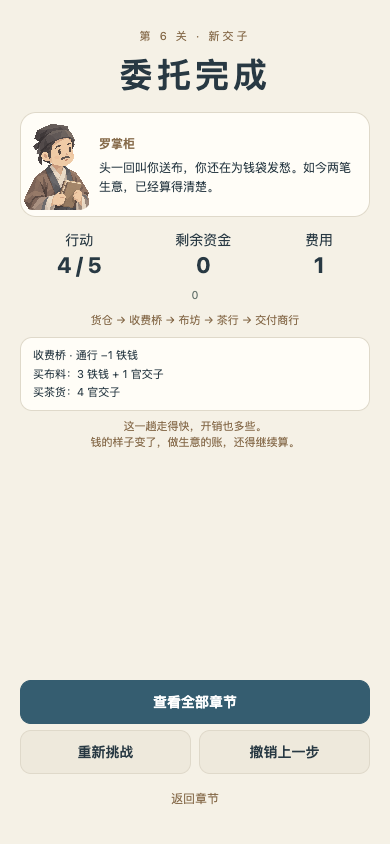
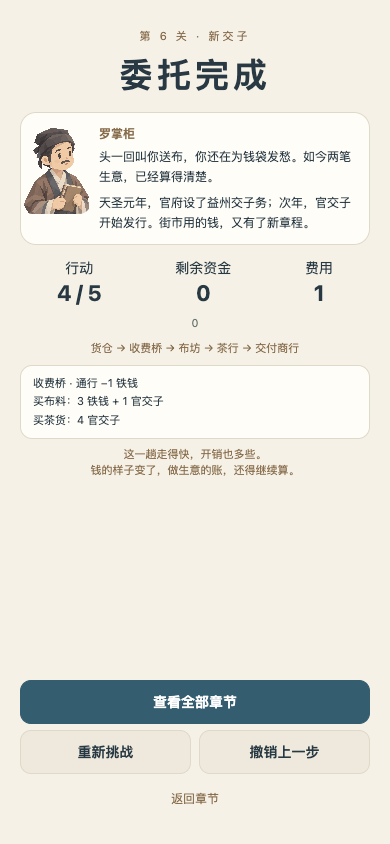
Blend chapter history into endings and illustrate the chapter journey

Changed region(s): [[0.0615, 0.1232, 0.8923, 0.5853], [0.9231, 0.2464, 0.9538, 0.2773]]

diff --git a/web/app.js b/web/app.js
@@ -17,20 +17,20 @@ function mapView(v){
 function panel(v){const p=v.panel;return `<div class="action-panel ${p.kind}"><div class="panel-heading"><strong>${esc(p.title)}</strong><span class="muted">${esc(p.meta)}</span></div><button class="ask-guide" data-action="hint" aria-label="向阿禾询问提示"><img src="${v.guide.portrait}" alt=""><span>问阿禾</span></button><div class="payment-controls">${p.steppers.map(s=>`<div class="stepper ${s.key==='x'?'exchange-stepper':''}">${btn('−',s.minus,'small',s.minDisabled)}<span class="stepper-value">${esc(s.label)}${s.key==='x'?'':` <b>${s.value}</b>`}</span>${btn('+',s.plus,'small',s.maxDisabled)}</div>`).join('')}</div>${p.choices.length?`<div class="choice-buttons">${p.choices.map(c=>btn(c.label,c.id,c.selected?'primary':'secondary')).join('')}</div>`:''}<p class="preview">${esc(p.preview)}</p><div class="action-buttons">${buttons(p.buttons)}</div></div>`;}
 function portrait(a,cls='portrait'){return `<img class="${cls}" src="${a.portrait}" alt="${esc(a.name)}">`;}
 function vignette(v,who){return `<div class="story-visual"><img class="vignette-scene" src="${v.narrative.scene}" style="object-position:${v.narrative.crop}" alt="蜀地街市"><div class="vignette-wash"></div>${portrait(who,'hero-portrait')}<div class="vignette-caption"><span class="eyebrow">${esc(v.narrative.tag)}</span><span>一程商路 · 一笔人情</span></div></div>`;}
-function response(v){return `<div class="character-response">${portrait(v.outroActor)}<div><b>${esc(v.outroActor.name)}</b><p>${esc(v.outroText)}</p></div></div>`;}
+function response(v){return `<div class="character-response ${v.historyLine?'history-response':''}">${portrait(v.outroActor)}<div><b>${esc(v.outroActor.name)}</b><p>${esc(v.outroText)}</p>${v.historyLine?`<p class="history-line">${esc(v.historyLine)}</p>`:''}</div></div>`;}
 function modal(v){const m=v.modal;if(!m)return '';let foot='';
  if(m.kind==='menu')return `<div class="modal-backdrop menu-backdrop"><section class="rules-dialog journey-menu" role="dialog" aria-modal="true" aria-label="行商手记"><div class="row"><h2>行商手记</h2>${btn('收起','close','text-button')}</div><div class="journey-menu-items">${btn('查看规则','rules','secondary')}${btn('重听委托','replay','secondary')}${btn('重新启程','retry','secondary')}${btn('选择章节','chapters','secondary')}</div></section></div>`;
  if(m.kind==='move')foot=btn('返回','close','secondary')+(m.canMove?btn('确认前往','confirm-move'):'');
  else if(m.kind==='lesson')foot=btn('跳过教学','skip-tutorial','secondary')+btn('继续','lesson-next');
  else if(m.kind==='hint')foot=btn('返回游戏','close','secondary')+btn(v.hintLevel===1?'查看参考解法':'再提示一点','hint-next','primary',v.hintLevel>=2);
- else if(m.kind==='rules'||m.kind==='history')foot=btn('上一页',m.kind==='rules'?'rule-prev':'history-prev','secondary',m.page===0)+btn(m.page===m.count-1?'返回游戏':'下一页',m.page===m.count-1?'close':m.kind==='rules'?'rule-next':'history-next');
+ else if(m.kind==='rules')foot=btn('上一页','rule-prev','secondary',m.page===0)+btn(m.page===m.count-1?'返回游戏':'下一页',m.page===m.count-1?'close':'rule-next');
  else foot=btn('继续行商','close');
  if(m.dialogue)return `<div class="modal-backdrop narrative-backdrop ${m.important?'important-dialogue':'teaching-backdrop'}"><section class="rules-dialog dialogue-card" role="${m.important?'dialog':'status'}" aria-modal="${m.important}" aria-label="${esc(m.title)}">${portrait(m.actor,'dialogue-portrait')}<div class="dialogue-copy"><span class="eyebrow">${esc(m.actor.role)}</span><h2>${esc(m.actor.name)}</h2><p>${esc(m.body)}</p></div><div class="dialog-controls">${foot}</div></section></div>`;
  return `<div class="modal-backdrop ${m.kind==='lesson'?'teaching-backdrop':''}"><section class="rules-dialog" role="${m.kind==='lesson'?'status':'dialog'}" aria-modal="${m.kind!=='lesson'}" aria-label="${esc(m.title)}"><div class="row"><span class="eyebrow">${m.kind==='lesson'?'同行寄语':m.kind==='hint'?`提示 ${v.hintLevel+1} / 3`:'行商札记'}</span>${btn('关闭','close','text-button')}</div><h2>${esc(m.title)}</h2>${m.flavor?`<div class="node-flavor">${esc(m.flavor)}</div>`:''}<p>${esc(m.body).replace(/\n/g,'<br>')}</p><div class="dialog-controls">${foot}</div></section></div>`;
 }
 function render(){const v=ShuNarrative.decorate(ShuScene.decorate(game.view())),s=v.s,l=v.level;let html='';
- if(v.screen==='home')html=`<section class="journey-home"><header class="journey-heading"><span class="eyebrow">北宋蜀地 · 行商札记</span><h1>蜀地钱路</h1><p>钱有轻重，路有取舍。</p></header><article class="continue-card">${vignette(v,v.guide)}<div class="continue-copy"><div class="row"><span class="eyebrow">第 ${l.number} 关 · ${esc(v.narrative.tag)}</span><span class="progress-count">已完成 ${v.completedCount} / ${v.chapterCount}</span></div><h2>${esc(l.title)}</h2><p>${esc(l.mission)}</p><div class="journey-progress">${v.chapters.map(c=>`<i class="${c.completed?'done':c.id===l.id?'active':''}"></i>`).join('')}</div><span class="journey-status">${esc(v.journeyStatus)}</span></div></article><div class="home-actions">${btn('继续章节','start')}<div class="action-buttons">${btn('选择章节','chapters','secondary')}${btn('交子史话','history','secondary')}</div></div></section>`;
- else if(v.screen==='chapters')html=`<section class="chapters-screen narrative-chapters"><div class="row"><div><span class="eyebrow">从一袋铁钱，到独当一面</span><h1>行商六记</h1></div>${btn('返回','home','text-button')}</div><p class="chapter-progress">已办妥 ${v.completedCount} 笔委托 · 共 ${v.chapterCount} 章</p><div class="chapter-grid">${v.chapters.map(c=>`<button class="chapter-card ${c.completed?'completed':''}" data-action="level:${c.id}" ${c.locked?'disabled':''}><div class="chapter-thumbnail"><img src="${c.scene}" style="${c.artStyle}" alt=""><span class="chapter-number">0${c.number}</span><span class="chapter-state">${c.locked?'未解锁':c.completed?'已完成':'启程'}</span></div><div class="chapter-card-copy"><strong>${esc(c.title)}</strong><span>${esc(c.subtitle)}</span></div></button>`).join('')}</div></section>`;
+ if(v.screen==='home')html=`<section class="journey-home"><header class="journey-heading"><span class="eyebrow">北宋蜀地 · 行商札记</span><h1>蜀地钱路</h1><p>钱有轻重，路有取舍。</p></header><article class="continue-card">${vignette(v,v.guide)}<div class="continue-copy"><div class="row"><span class="eyebrow">第 ${l.number} 关 · ${esc(v.narrative.tag)}</span><span class="progress-count">已完成 ${v.completedCount} / ${v.chapterCount}</span></div><h2>${esc(l.title)}</h2><p>${esc(l.mission)}</p><div class="journey-progress">${v.chapters.map(c=>`<i class="${c.completed?'done':c.id===l.id?'active':''}"></i>`).join('')}</div><span class="journey-status">${esc(v.journeyStatus)}</span></div></article><div class="home-actions">${btn('继续章节','start')}<div class="action-buttons">${btn('选择章节','chapters','secondary')}</div></div></section>`;
+ else if(v.screen==='chapters')html=`<section class="chapter-journey"><header class="row"><div><span class="eyebrow">沿着蜀地商路，记下六段故事</span><h1>行商六记</h1></div>${btn('首页','home','text-button')}</header><div class="journey-caption"><span>一程一约，慢慢走来</span><span>已完成 ${v.completedCount} / ${v.chapterCount}</span></div><div class="chapter-landscape"><img class="chapter-ground" src="${v.chapterBackdrop}" alt=""><div class="chapter-roads" aria-hidden="true">${v.chapterRoads.map(r=>`<div class="chapter-road ${r.reverse?'reverse':''} ${r.done?'done':''}" style="${r.style}"></div>`).join('')}</div>${v.chapters.map(c=>`<button class="chapter-stop ${c.completed?'completed':''} ${c.locked?'locked':''} ${c.active?'active':''}" style="${c.positionStyle}" data-action="level:${c.id}" ${c.locked?'disabled':''} aria-label="第${c.number}关 ${esc(c.title)} ${c.locked?'未解锁':c.completed?'已完成':'启程'}"><span class="chapter-island"><span class="chapter-sprite"><img src="${c.scene}" style="${c.artStyle}" alt="${esc(c.tag)}场景"></span></span><span class="stop-label"><span class="stop-title"><i>${String(c.number).padStart(2,'0')}</i><strong>${esc(c.title)}</strong></span><span class="stop-caption">${esc(c.tag)}<span class="chapter-state">${c.locked?'未解锁':c.completed?'已完成':'启程'}</span></span></span></button>`).join('')}</div></section>`;
  else if(v.screen==='intro')html=`<section class="chapter-opening"><header><span class="eyebrow">第 ${l.number} 关 / ${esc(v.narrative.tag)}</span><h1>${esc(l.title)}</h1><p class="opening-line">${esc(v.narrative.line)}</p></header>${vignette(v,v.narrative.speaker)}<div class="commission-card"><div class="speaker-line"><b>${esc(v.narrative.speaker.name)}</b><span>${esc(v.narrative.speaker.role)}</span></div><p>${esc(v.narrative.opening)}</p><div class="commission-details"><strong>${esc(l.mission)}</strong><div><span>${l.maxSteps} 步内送达</span><span>钱袋 ${l.capacity} 格</span></div></div></div><div class="opening-actions">${btn('开始委托','play')}${btn('跳过教学，直接开始','skip-intro','text-button')}</div></section>`;
  else if(s.status!=='playing')html=`<section class="result-screen"><span class="eyebrow">第 ${l.number} 关 · ${esc(l.title)}</span><h1 class="cover-title">${s.status==='won'?'委托完成':'行程未成'}</h1>${response(v)}${s.status!=='won'?`<p class="result-copy">${esc(v.resultText)}</p>`:''}<div class="result-stats"><span>行动<b>${s.stepsUsed} / ${l.maxSteps}</b></span><span>剩余资金<b>${v.total}</b></span><span>费用<b>${v.fee}</b></span></div><p class="muted">${esc(v.remainingText)}</p><p class="path">${esc(v.pathText)}</p><div class="ledger">${v.ledger.map(row=>`<p>${esc(row.text)}</p>`).join('')}</div>${s.status==='won'?`<p class="route-review">${esc(v.routeReview)}${v.ending?'<br>'+esc(v.ending):''}</p>`:''}<div class="result-buttons">${s.status==='won'?btn(v.nextLabel,'next'):''}<div class="action-buttons">${btn('重新挑战','retry','secondary')}${btn('撤销上一步','undo','secondary',!v.canUndo)}</div>${btn('返回章节','chapters','text-button')}</div></section>`;
  else html=`<div class="panel-terrain"><img src="${v.modular?'/miniapp/assets/v2/terrain.png':'/miniapp/assets/approved/town-extended.png'}" alt=""></div><header class="topbar"><div class="row"><div><h1 class="brand">蜀地钱路</h1><span class="chapter">第 ${l.number} 关 · ${esc(l.title)}</span></div><div class="top-actions">${btn('菜单','menu','menu-button')}</div></div><div class="mission"><span>${esc(l.mission)}</span><div class="journey-actions"><span class="steps"><b>${s.stepsUsed}</b> / ${l.maxSteps} 步</span><button class="undo-action" data-action="undo" aria-label="撤销上一步" title="撤销上一步" ${v.canUndo?'':'disabled'}><span aria-hidden="true">↶</span><small>撤销</small></button></div></div></header>${mapView(v)}<section class="dock"><div class="wallet">${v.resources.map(r=>`<div class="walletitem">${icon(r)}<div><span class="label">${esc(r.name)}</span><b>${r.value}</b></div></div>`).join('')}<div class="load"><span class="label">随身负重</span><b>${v.weight} / ${l.capacity}</b><div class="capacity">${v.slots.map(slot=>`<i class="slot ${slot.kind}"></i>`).join('')}</div></div></div><div class="cargo-strip">${v.cargo.map(c=>`<span>${icon(c)}${esc(c.name)} <b>${c.value}</b></span>`).join('')}</div>${v.message?`<div class="feedback ${v.error?'error':''}" role="status">${esc(v.message)}</div>`:''}${panel(v)}</section>`;
@@ -39,3 +39,6 @@ function render(){const v=ShuNarrative.decorate(ShuScene.decorate(game.view())),
 root.addEventListener('click',e=>{const b=e.target.closest('button');if(!b||b.disabled)return;if(b.dataset.node||b.dataset.building)game.selectNode(b.dataset.node||b.dataset.building);else game.dispatch(b.dataset.action);render();});
 root.addEventListener('keydown',e=>{if(!game.view().modal||game.view().modal.kind==='lesson')return;if(e.key==='Escape'){game.dispatch('close');render();}if(e.key==='Tab'){const b=[...root.querySelectorAll('.rules-dialog button:not(:disabled)')],i=b.indexOf(document.activeElement);e.preventDefault();b[(i+(e.shiftKey?-1:1)+b.length)%b.length].focus();}});
 render();
+
+// A fresh load always starts at home. Also reset the visible screen after a cached Back visit.
+window.addEventListener('pageshow',event=>{if(event.persisted){game.dispatch('home');render();}});

diff --git a/miniapp/styles/narrative.css b/miniapp/styles/narrative.css
@@ -22,3 +22,14 @@
 .dock{padding-bottom:12px}.action-panel{position:relative;height:184px}.action-panel .panel-heading{padding-right:78px;min-height:37px}.ask-guide{position:absolute;right:0;top:3px;display:flex;align-items:center;gap:2px;width:76px;height:44px;padding:0;margin:0;background:transparent;border:0;color:var(--brown);font-size:11px;line-height:1.3}.ask-guide img,.ask-guide image{width:32px;height:40px;object-fit:cover;object-position:top;filter:saturate(var(--story-portrait-tone));border-radius:14px}.ask-guide:active{background:var(--surface);border-radius:12px}.action-panel.travel{height:90px}.action-panel.delivery{height:115px}
 .menu-backdrop{align-items:flex-start;justify-content:flex-end;padding-top:calc(68px + env(safe-area-inset-top));background:#28394335}.journey-menu{max-width:286px}.journey-menu h2,.journey-menu .rule-title{font-size:21px;margin:4px 0}.journey-menu-items{display:flex;flex-direction:column;gap:9px;margin-top:12px}.journey-menu-items button{min-height:46px;background:var(--paper);justify-content:flex-start;padding-left:16px}.journey-menu-items button:last-child{border:0;background:transparent;color:var(--brown)}
 @media(max-height:740px){.topbar{flex-basis:101px}.action-panel{height:178px}.dock{padding-bottom:8px}}
+
+/* Six illustrated chapter islands share a landscape, without directory-style cards. */
+:root,page{--chapter-art-tone:.58;--chapter-road:#bfac88;--chapter-paper:#fffdf2f2}
+.chapter-journey{display:flex;flex-direction:column;flex:1;min-height:0;padding:16px 6px 0;gap:10px}.chapter-journey .eyebrow{font-size:10px;letter-spacing:1px}.chapter-journey h1,.journey-title{font-family:serif;font-size:32px;font-weight:700;letter-spacing:2px;margin:5px 0 0;line-height:1.3}.journey-caption{display:flex;justify-content:space-between;font-size:11px;color:var(--muted);padding-bottom:5px}.chapter-landscape{position:relative;flex:1;min-height:0;margin:0 -18px -8px;isolation:isolate;overflow:hidden}.chapter-ground{position:absolute;inset:0;width:100%;height:100%;object-fit:cover;opacity:.36;filter:saturate(.45);pointer-events:none;mask-image:linear-gradient(transparent,#000 12%,#000);-webkit-mask-image:linear-gradient(transparent,#000 12%,#000)}.chapter-roads{position:absolute;inset:0;pointer-events:none}.chapter-road{position:absolute;border-bottom:3px dashed var(--chapter-road);border-right:3px dashed var(--chapter-road);border-radius:0 0 40px 0;opacity:.75}.chapter-road.reverse{transform:translateX(-100%);border-right:0;border-left:3px dashed var(--chapter-road);border-radius:0 0 0 40px}.chapter-road.done{border-color:var(--blue)}
+.chapter-stop{position:absolute;width:47%;height:28%;transform:translate(-50%,-50%);display:flex;flex-direction:column;align-items:center;justify-content:flex-end;border:0;background:transparent;border-radius:20px;padding:0;overflow:visible;min-width:44px;min-height:44px;color:var(--ink)}.chapter-stop:disabled{opacity:1;cursor:default}.chapter-stop:active:not(:disabled){transform:translate(-50%,-52%)}.chapter-island{display:block;position:relative;flex:1;width:100%;min-height:0;overflow:hidden;filter:saturate(var(--chapter-art-tone));pointer-events:none}.chapter-island img,.chapter-island image{position:absolute;width:300%;height:200%;max-width:none;object-fit:fill;display:block;pointer-events:none}.chapter-stop.locked .chapter-island{filter:saturate(.45);opacity:.85}.stop-label{display:flex;flex-direction:column;gap:3px;flex-shrink:0;width:95%;padding:6px 8px;background:var(--chapter-paper);border:1px solid #ddd6c4;border-radius:10px;box-shadow:0 3px 8px #4850390a;text-align:left;pointer-events:none}.stop-title{display:flex;align-items:center;gap:6px;white-space:nowrap}.stop-title i,.stop-number{font-style:normal;font-family:serif;color:var(--brown);font-size:14px}.stop-title strong,.stop-name{font-size:14px;font-weight:650;letter-spacing:0}.stop-caption{display:flex;justify-content:space-between;align-items:center;font-size:10px;color:var(--muted);padding-left:21px}.stop-caption .chapter-state{font-size:9px;color:var(--muted)}.chapter-stop.active .stop-label{border-color:var(--gold);background:var(--white);box-shadow:0 0 0 2px #b68e5715}.chapter-stop.active .chapter-state{background:var(--blue);border-radius:4px;color:white;padding:1px 5px}.chapter-stop.completed .chapter-state{color:var(--blue)}
+.character-response .history-line{font-size:12px;line-height:1.7;margin-top:7px;color:var(--ink)}.character-response.history-response{align-items:flex-start;padding-top:10px;padding-bottom:10px}.character-response .portrait{flex-shrink:0}.home-actions .action-buttons .secondary{background:transparent}
+@media(max-height:740px){.chapter-journey{padding-top:6px;gap:6px}.chapter-journey h1,.journey-title{font-size:28px}.stop-title strong,.stop-name{font-size:12px}.stop-label{padding:4px 6px}.stop-caption{font-size:9px}.character-response .history-line{font-size:11px;line-height:1.6;margin-top:5px}}
+
+.chapter-sprite{position:absolute;height:100%;aspect-ratio:1;left:50%;top:0;transform:translateX(-50%);overflow:hidden;display:block}
+/* Trim the atlas cell gutters so neighboring trees never appear as edge slivers. */
+.chapter-sprite{clip-path:inset(1% 4%)}

diff --git a/miniapp/core/controller.js b/miniapp/core/controller.js
@@ -22,14 +22,15 @@ function create(storage={}){
   ui.modal={kind:'move',nodeId:id,title:n.name,body:[id===s.nodeId?'当前所在地':'移动 1 步'+(n.toll?' · 每次进入付 '+n.toll+' 铁钱':' · 无通行费'),...trades,...(r&&!r.ok?[r.message]:[])].join('\n'),canMove:!!(r&&r.ok)};
  }
  function dispatch(id){const l=session.level,s=session.state;
+  // Returning to the entry screen is also used for browser page restoration.
+  if(id==='home'){ui.screen='home';ui.modal=null;return;}
   // Confirmation dialogs own input; teaching cards leave gameplay available.
   if(ui.modal&&ui.modal.kind==='menu'&&['rules','chapters','replay','retry'].includes(id))ui.modal=null;
-  const modalActions=['close','confirm-move','lesson-next','skip-tutorial','hint-next','rule-prev','rule-next','history-prev','history-next'];
+  const modalActions=['close','confirm-move','lesson-next','skip-tutorial','hint-next','rule-prev','rule-next'];
   if(ui.modal&&ui.modal.kind!=='lesson'&&!modalActions.includes(id))return;
   if(id.startsWith('level:')){begin(id.slice(6));return;}
   if(id==='start'){begin(progress.last);return;}
   if(id==='chapters'){ui.screen='chapters';ui.modal=null;return;}
-  if(id==='home'){ui.screen='home';return;}
   if(id==='play'||id==='skip-intro'){ui.screen='play';if(id==='skip-intro'){ui.skip=true;if(!progress.tutorialDone.includes(l.id))progress.tutorialDone.push(l.id);save();}else lesson('money');return;}
   if(id==='close'){if(ui.modal&&ui.modal.kind==='lesson')session.markTutorial(ui.modal.id);ui.modal=null;return;}
   if(id==='confirm-move'){const m=ui.modal;if(m&&m.kind==='move'&&m.canMove)act({type:'move',to:m.nodeId});return;}
@@ -41,8 +42,6 @@ function create(storage={}){
   if(id==='rule-next'||id==='rule-prev'){const max=P.view(session,ui).rules.length-1;ui.modal.page=Math.max(0,Math.min(max,ui.modal.page+(id==='rule-next'?1:-1)));return;}
   if(id==='hint'){ui.hint=0;ui.modal={kind:'hint',title:'行商提示',body:l.hints[0]};return;}
   if(id==='hint-next'){ui.hint=Math.min(2,ui.hint+1);ui.modal.body=l.hints[ui.hint];return;}
-  if(id==='history'){ui.modal={kind:'history',page:0};return;}
-  if(id==='history-next'||id==='history-prev'){ui.modal.page=Math.max(0,Math.min(1,ui.modal.page+(id==='history-next'?1:-1)));return;}
   if(id==='retry'){session.reset();Object.assign(ui,{x:3,message:'',error:false,modal:null,skip:progress.tutorialDone.includes(l.id),hint:0});defaults();return;}
   if(id==='undo'){session.undo();ui.message='已撤销';ui.error=false;ui.modal=null;defaults();return;}
   if(id==='next'){const next=Levels.all[l.number];if(next)begin(next.id);else ui.screen='chapters';return;}
@@ -53,7 +52,6 @@ function create(storage={}){
  }
  function view(){const v=P.view(session,ui),m=ui.modal?Object.assign({},ui.modal):null;
   if(m&&m.kind==='rules'){const rule=v.rules[m.page];m.title=rule[0];m.body=rule[1];m.count=v.rules.length;}
-  if(m&&m.kind==='history'){const pages=[['交子的来路','北宋蜀地铁钱沉重，携带不便。民间票据的发展与商号信用和兑现能力相连。'],['从民间到官办','天圣元年设益州交子务，次年发行官交子。\n资料：成都博物馆；全国哲学社会科学工作办公室，何平（2023）。']];m.title=pages[m.page][0];m.body=pages[m.page][1];m.count=2;}
   return Object.assign(v,{screen:ui.screen,message:ui.message,error:ui.error,modal:m,hintLevel:ui.hint,chapters:Levels.all.map(l=>({id:l.id,title:l.title,number:l.number,mission:l.mission,locked:!unlocked(l),completed:progress.completed.includes(l.id)})),lastTitle:Levels.get(progress.last).title,hasProgress:progress.completed.length>0,nextLabel:lNext(v.level)});
  }
  function lNext(l){return l.number<Levels.all.length?'下一关':'查看全部章节';}

diff --git a/miniapp/ui/narrative.js b/miniapp/ui/narrative.js
@@ -14,15 +14,33 @@ const chapters={
  l05:{tag:'纸券与现钱',subtitle:'兑现之前，再算一算',line:'许记门前有人等候，柜上的铁钱却不多了。',crop:'74% 82%',opening:'今日柜上现钱不多，兑付得有个限度。你要买纸墨，先看看两市的价。'},
  l06:{tag:'再度启程',subtitle:'新纸券，老生意',line:'新交子到了街市，熟悉的商路又热闹起来。',crop:'45% 20%',opening:'还记得头一回送布吗？如今换了新交子，布料和茶货这两笔买卖，托你办了。'}
 };
+// Historical facts paraphrased from the sources recorded in docs/history-sources.md.
+// Spoken by fictional characters; never used as transaction or route rules.
+const historyFragments={
+ l01:'铁钱这样沉，做买卖难免费力。蜀地的交子，正是因携钱不便而兴起的。',
+ l02:'交子通行以后，铁钱也没退出街市。轻便的纸券和现钱，在蜀地并行流通。',
+ l03:'最初办交子的，是民间铺户。人们肯收这张纸，靠的是对铺户与商号的信任。',
+ l04:'蜀地茶货往来兴旺，交子也用在茶商的大额交易中。这张轻纸，跟着生意走了很远。',
+ l05:'交子得能兑成钱，才有人放心收。早年的铺户也遇过兑付困难，甚至引起争讼。',
+ l06:'天圣元年，官府设了益州交子务；次年，官交子开始发行。街市用的钱，又有了新章程。'
+};
+const stops=[[26,16],[74,28],[26,44],[74,56],[26,72],[74,84]];
 function actor(name,base){const c=characters[name]||characters['阿禾'];return {name:characters[name]?name:'阿禾',role:c.role,portrait:base+'/characters/'+c.id+'.png'};}
 function decorate(v,base='/miniapp/assets'){
  const n=chapters[v.level.id];v.narrative=Object.assign({},n,{speaker:actor(v.level.intro[0],base),scene:base+'/approved/town-atlas.png'});
  v.completedCount=v.chapters.filter(c=>c.completed).length;v.chapterCount=v.chapters.length;
- v.chapters=v.chapters.map(c=>{const crop=chapters[c.id].crop.split(' ').map(parseFloat);return Object.assign({},c,chapters[c.id],{scene:base+'/approved/town-atlas.png',artStyle:'left:'+(-crop[0]*1.2)+'%;top:'+(-crop[1]*1.2)+'%;'});});
+ v.chapterBackdrop=base+'/v2/terrain.png';
+ v.chapters=v.chapters.map((c,i)=>Object.assign({},c,chapters[c.id],{
+  scene:base+'/chapters/chapter-scenes.png',artStyle:'left:'+(-(i%3)*100)+'%;top:'+(-Math.floor(i/3)*100)+'%;',
+  positionStyle:'left:'+stops[i][0]+'%;top:'+stops[i][1]+'%;',active:!c.locked&&!c.completed
+ }));
+ // Connecting the chapter journey is presentation only, separate from the playable maps.
+ v.chapterRoads=stops.slice(1).map((b,i)=>{const a=stops[i],dx=b[0]-a[0],dy=b[1]-a[1];return {id:i,done:v.chapters[i].completed,style:'left:'+a[0]+'%;top:'+a[1]+'%;width:'+Math.abs(dx)+'%;height:'+Math.abs(dy)+'%;',reverse:dx<0};});
  v.currentChapter=v.chapters.find(c=>c.id===v.level.id);
  v.journeyStatus=v.currentChapter.completed?'这笔委托已办妥，随时可以重走商路。':'委托已备好，等你启程。';
  v.guide=actor('阿禾',base);
  v.outroActor=actor(v.s.status==='won'?v.level.outro[0]:'阿禾',base);
+ v.historyLine=v.s.status==='won'?historyFragments[v.level.id]:'';
  v.outroText=v.s.status==='won'?v.level.outro[1]:'这笔账还可以重算。退回上一步，我们换个走法。';
  if(v.modal){const m=v.modal;
   m.dialogue=['lesson','story'].includes(m.kind);m.important=m.kind==='story';
@@ -34,5 +52,5 @@ function decorate(v,base='/miniapp/assets'){
  }
  return v;
 }
-return {decorate,characters,chapters};
+return {decorate,characters,chapters,historyFragments};
 });

diff --git a/scripts/build-web.js b/scripts/build-web.js
@@ -21,3 +21,5 @@ console.log('Static game ready: ' + out);
 for (const file of ['buildings.png','terrain.png','goods.png']) copy('miniapp/assets/v2/' + file);
 
 for (const file of ['ahe.png','luo.png','xu.png']) copy('miniapp/assets/characters/' + file);
+
+copy('miniapp/assets/chapters/chapter-scenes.png');

diff --git a/README.md b/README.md
@@ -1,6 +1,6 @@
 # 蜀地钱路 · 六关可玩原型
 
-按《完整游戏策划文档 V2.0》实现，程序版本 **0.4.3**。手机竖屏固定屏，纯 JavaScript 规则、原生小红书页面和浏览器入口共用逻辑。仅保留本地试玩和私有 GitHub，不部署在线站点。
+按《完整游戏策划文档 V2.0》实现，程序版本 **0.4.4**。手机竖屏固定屏，纯 JavaScript 规则、原生小红书页面和浏览器入口共用逻辑。仅保留本地试玩和私有 GitHub，不部署在线站点。
 
 ## 在 VS Code 运行
 
@@ -24,7 +24,7 @@ npm start
 
 ## 本次界面更新
 
-首页显示最近章节、当前委托和通关进度；章节页采用六张场景卡。每关开场包含短叙事、角色与场景构图、委托卡和开始/跳过入口。常规教学采用底部角色对白，剧情重播采用半屏卡；结算增加角色回应。
+首页显示最近章节、当前委托和通关进度；章节页采用六幅不同场景串联的插画商路图。每关开场包含短叙事、角色与场景构图、委托卡和开始/跳过入口。常规教学采用底部角色对白，剧情重播采用半屏卡；结算增加角色回应与本关相关的短史话，首页不再提供独立“交子史话”入口。
 
 阿禾、罗掌柜、许掌柜已替换为与微缩地图配套的块面卡通半身资源（不采用真人或半写实风格），尚非最终美术定稿。剧情与素材绑定集中在 `miniapp/ui/narrative.js`，布局在 `miniapp/styles/narrative.css`；核心规则与六关数值没有修改。
 
@@ -43,7 +43,7 @@ npm start
 
 点击建筑或地点牌查看条件，再确认移动。交易货币分别调节；确认前预览余额与负重。只有移动消耗步数。所有非法操作不改变状态；死局可撤销或重试。剧情和教学可跳过，主动提示分三级。
 
-通关按顺序解锁，重玩默认跳过教学；本机只保存已通关章节、教程完成记录、最近章节。刷新会重新开始该关，不保存中途局面。结算保留实际路线、采购顺序、货币支付、费用与余额。
+通关按顺序解锁，重玩默认跳过教学；本机只保存已通关章节、教程完成记录、最近章节。刷新统一回到首页，保留已通关/解锁和最近章节；点击继续才重新开始该关，不保存中途局面。结算保留实际路线、采购顺序、货币支付、费用与余额。
 
 ## 小红书开发者工具
 
@@ -52,7 +52,7 @@ npm start
 3. 入口 `app.json` → `pages/index/index`；页面使用 `.js/.json/.xhsml/.css`，存储使用 `xhs.getStorageSync/setStorageSync` 官方示例签名。
 4. 工具中编译并进行设备预览，重点检查模板表达式、CSS 变量/遮罩/clip-path、图片布局、安全区和本地存储。
 
-**当前没有 AppID、官方工具编译或真机结果。** Native adapter 测试是 Node 中的 Page/setData 模拟，不是平台测试。素材尚未做发布级优化，完整 `miniapp/assets` 约 30 MiB（含前期未使用生成素材）；平台包体、类目和准入条件仍待确认，不能据此直接发布。
+**当前没有 AppID、官方工具编译或真机结果。** Native adapter 测试是 Node 中的 Page/setData 模拟，不是平台测试。素材尚未做发布级优化，完整 `miniapp/assets` 约 33 MiB（含前期未使用生成素材）；平台包体、类目和准入条件仍待确认，不能据此直接发布。
 
 ## 测试
 
@@ -70,6 +70,7 @@ npm install --no-save playwright@1.62.1
 npm run test:browser
 npm run test:layout
 npm run test:narrative
+npm run test:journey
 ```
 
 需要本地服务正在运行，并安装 Chrome。可用 `BROWSER_CHANNEL=chromium` 改用已安装的 Playwright Chromium。`BASE_URL` 可替换规则/关卡浏览器测试的入口。截图输出到 `outputs/`。

diff --git a/docs/art-prompts.md b/docs/art-prompts.md
@@ -133,3 +133,10 @@ Luo, a middle-aged Chinese shopkeeper with a broad rounded face, small tidy must
 ```text
 Xu, a lean adult Chinese merchant about forty, longer slightly angular cartoon face, clean-shaven, simple blue-gray cloth cap, muted dark teal Song-inspired everyday robe with ivory collar. Holds two plain beige paper notes, attentive and thoughtful but friendly expression. Cartoon like image2, NOT a portrait of a real man.
 ```
+# 0.4.4 章节场景图集
+
+内置 image_gen；参考 docs/references/approved-game-ui.png；transparent_background=true。首轮网络错误，使用同一提示词重试成功。原始输出直接复制到 miniapp/assets/chapters/chapter-scenes.png，图像本身未裁切或重绘；运行时单元按正方形等比定位。
+
+```text
+Create ONE coherent game asset: a 3-column by 2-row sprite sheet containing SIX DISTINCT SMALL ISOMETRIC TOWN VIGNETTES. Landscape 1536x1024, six equal square cells, each artwork entirely inside its cell with 10% transparent margin. Genuine transparent background between and around all six islands. Reference image is the existing Chinese trading game MAP STYLE only: match clean low-saturation digital illustration, gray-blue curved tiled roofs, wooden beams, warm ivory walls, soft simple 2.5D forms, tiny faceted trees, sparse attractive details. NOT photorealistic. NO text anywhere, no labels, no numbers, no UI, no buttons, no circles, no borders, no shared roads across cells. Each scene is its own tiny diorama with a soft pale earth base. Cell order left to right then next row: 1 cloth shop with slate blue and muted rust bolts of fabric and a handcart carrying small brown coin boxes; 2 two adjoining compact stalls, one with grain sacks and one with a low herbal medicine counter, one tiny tree; 3 ticket exchange shop with a timber counter and oversized blank beige paper slips visible on the counter, small blue hanging banner without writing; 4 tea merchant courtyard with bundled tea crates and a small balance scale, green awning and two tiny stylized merchant figures; 5 cash redemption counter under blue-gray roof with three tiny CARTOON townsfolk waiting, wooden cash box and paper slips, no distress; 6 a neat official-style small Chinese courtyard office with blue-gray roof, modest red-brown pillars, blank paper sheets stacked on a desk and one ornamental tree. Same camera angle, same sunlight direction and consistent building size in all cells. Art must be recognizable at 150px square. Attractive spacious miniature board-game scenes; no realistic faces, no crowded scenery, no mountains or fog. Emphasize distinct silhouettes and merchandise.
+```

diff --git a/outputs/章节与史话改版说明.md b/outputs/章节与史话改版说明.md
@@ -1,0 +1,30 @@
+# 《蜀地钱路》0.4.4 · 章节与史话改版
+
+## 本次完成
+
+- 首页移除独立“交子史话”入口。每关成功结尾，由现有角色讲一小段相关内容：铁钱沉重、钱券并用、商号信任、茶货往来、兑付困难、官交子。没有强制增加额外阅读页面。
+- 章节选择改成共享地形上的插画商路图，六章分别使用布铺、粮药街市、换票铺、茶行、兑付柜台、官交子场景。编号、名称、进度与道路仍为动态元素；待解锁章节也保留可辨识的画面。
+- 页面刷新统一回到游戏首页。已完成/解锁、教学记录和最近章节保留；点击继续才重新开始该关。浏览器缓存返回也收起旧弹窗回到首页。
+
+## 预览
+
+[本地试玩](http://127.0.0.1:4173/) · [章节商路图](chapter-journey-390.png) · [全部通关状态](chapter-journey-complete-390.png) · [通关史话](chapter-history-ending-390.png)
+
+## 素材与实现
+
+新素材：`miniapp/assets/chapters/chapter-scenes.png`，1536×1024 RGBA，3列×2行图集，约2.53MiB。由内置 imagegen 依照现有地图风格生成，首次网络错误后重试成功；未使用SVG占位或下载文物图片。尚未作为正式定稿。提示词保存在 `docs/art-prompts.md`，规格在 `docs/asset-manifest.md`。
+
+章节位置、图集映射和史话文本集中在 `miniapp/ui/narrative.js`，样式在 `miniapp/styles/narrative.css`。不修改关卡配置、数值或规则引擎。浏览器与小程序页面共同更新。
+
+## 史料依据
+
+- [成都博物馆：看展丨“钱眼”看成都](https://www.cdmuseum.com/xinwen/202204/2721.html)
+- [何平：成都“交子”产生的信任机制与“官方交子”发行的历史意义](https://www.nopss.gov.cn/n1/2023/0911/c219544-40075019.html)
+
+核验记录见 `docs/history-sources.md`。角色对白为自行改写，游戏中的金额与商号不作为史实介绍。
+
+## 测试
+
+59项自动化测试通过。六关两种策略×三种手机尺寸回归通过；新增章节插画、史话和刷新行为浏览器检查通过。没有页面滚动、控件越界或图片加载失败。静态构建通过；小红书仅做原生适配器及模板结构检查，未声称官方编译和真机通过。
+
+仅保留本地试玩与 [GitHub](https://github.com/zzzz1121/shu-trade-routes)，不进行在线部署。

diff --git a/docs/history-sources.md b/docs/history-sources.md
@@ -1,0 +1,19 @@
+# 关卡结尾中的交子史话
+
+核验日期：2026-10-16。独立“交子史话”入口已移除；以下内容融入六关成功结尾，由当前角色自然说出。失败结算不讲通关史话，不强制额外弹窗。游戏里的交易比例、商号甲乙及角色委托仍属于玩法和虚构叙事。
+
+|关卡|结尾话题|核验依据|
+|---|---|---|
+|布匹之约|铁钱携带不便，是交子兴起的重要背景|成都博物馆“交子”一节，何平文章“信任机制”一节|
+|两笔买卖|交子与铁钱并行流通|何平文章关于小额铁钱、大额交子及铁钱未退出流通的论述；不把游戏混付比例说成史实|
+|谁信这张纸？|民间铺户、商号信任|成都博物馆关于交子铺户的说明；何平关于信任网络的研究|
+|转手生意|交子与蜀地茶商的大额交易相关|何平文章引苏辙论茶山交易；不宣称茶商“发明了交子”|
+|兑付风波|兑付能力与信任、历史上的兑付困难和争讼|何平文章“官方交子发行的必然性”一节|
+|新交子|天圣元年（1023）设益州交子务，次年（1024）发行官交子|两篇来源均支持设务与实际发行分属两年|
+
+来源：
+
+- [成都博物馆：看展丨“钱眼”看成都（2022-04-29）](https://www.cdmuseum.com/xinwen/202204/2721.html)
+- [何平：成都“交子”产生的信任机制与“官方交子”发行的历史意义（2023-09-11）](https://www.nopss.gov.cn/n1/2023/0911/c219544-40075019.html)
+
+界面使用自行改写的短对白，不摘抄长文、不使用来源页面的文物图片。具体文本集中在 `miniapp/ui/narrative.js` 的 `historyFragments`；来源信息保留在开发文档，不在游戏画面添加常驻小字。

diff --git a/docs/visual-spec.md b/docs/visual-spec.md
@@ -96,3 +96,11 @@
 移除钱袋面板底部独立的“撤销／提示／剧情／重试”工具栏。撤销与行动步数并列，保留44px触控区和禁用状态；提示变成当前操作标题旁的阿禾角色入口“问阿禾”；剧情重播与重试分别以“重听委托”“重新启程”收进右上角“行商手记”菜单，菜单同时提供规则与章节入口。钱袋底边仅保留12px内边距，地图随可用高度延展，不预留空工具栏。
 
 菜单只管理视图，打开与收起不耗步、不改资产；打开期间禁止触发地图移动或背后交易。重试仍调用既有完整重置，撤销与三级提示规则不变。浏览器和小程序使用同一控制器状态。
+
+## 0.4.4 插画章节商路与结尾史话
+
+章节入口改成共享地形上的六处微缩场景，按左右错落的商路串联；不再使用六张重复地图裁切卡。每处场景下保留实时编号、标题和进度，待解锁场景仍保留图画与克制色彩。角色、章节标签、路线和状态均独立于图片，插画不烘焙文字。章节连接线只代表章节顺序，与六关内部的可走道路无关。
+
+六关通关回应各融入一小段相关史话，话题为铁钱携带、钱券并用、商号信任、茶货往来、兑付困难及官交子。使用既有角色对白卡，不弹出强制阅读页面。史料出处集中在 docs/history-sources.md，不增加常驻免责声明。首页移除“交子史话”独立按钮。
+
+页面刷新统一进入游戏首页，继续按钮由用户主动点击；已解锁与通关记录保留。浏览器缓存返回也收起上次界面和弹窗回首页。
